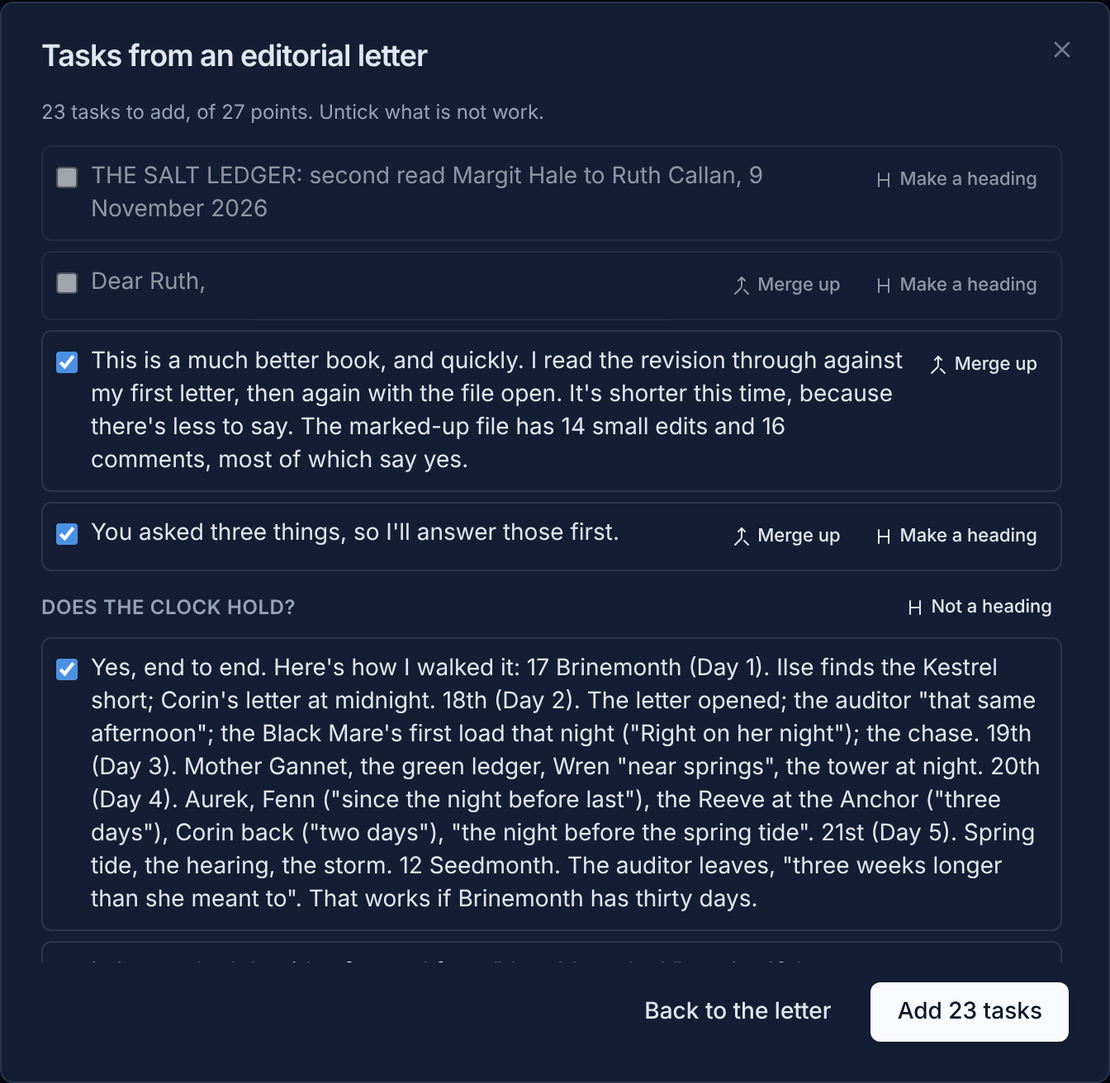
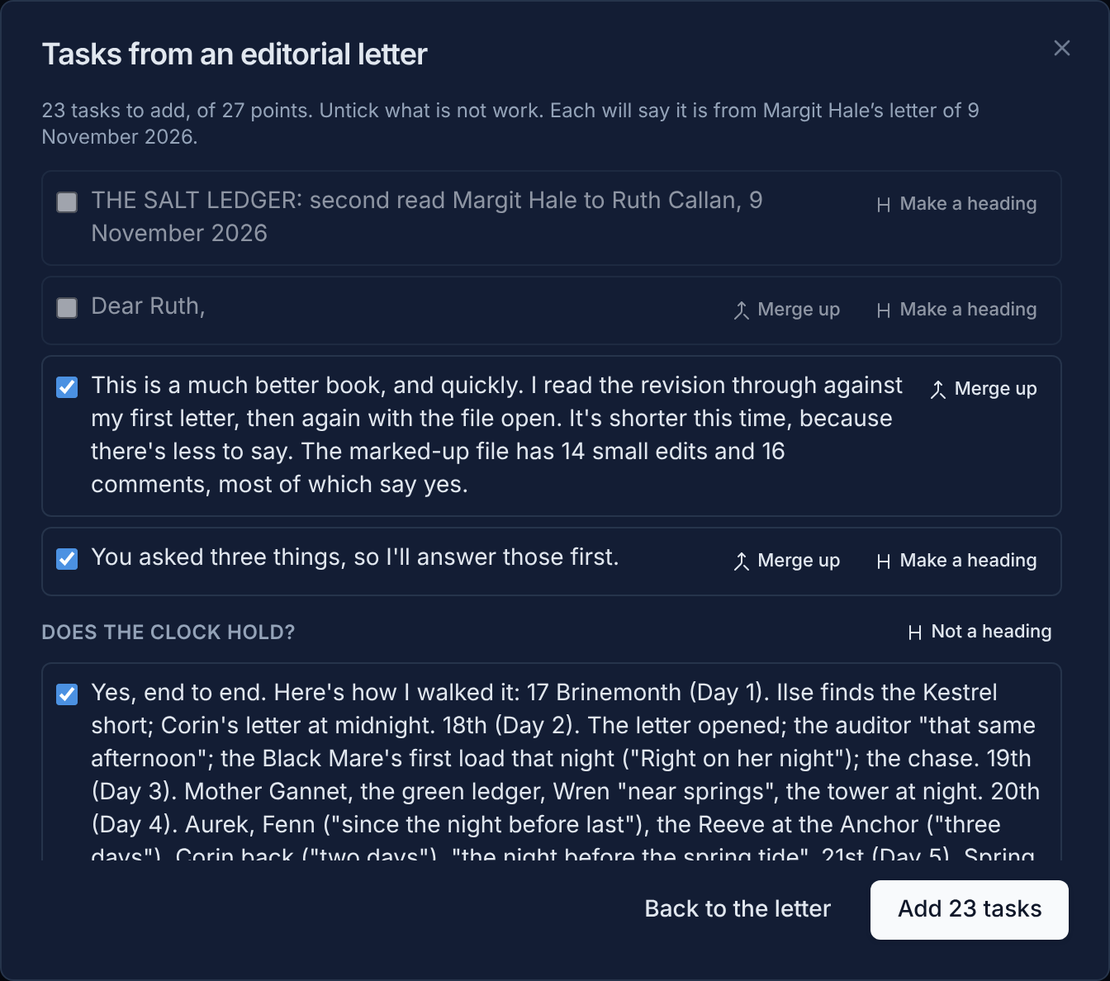
T20: revision tasks from a letter — Ch3 is a chapter, a sign-off read by where it is, a long numbered heading, and which letter
From the third loop's two letters, each finding seen in both:
- "Ch3", a number run straight on: 4 of the first letter's 21 tasks naming a
  chapter were linked to one, and now all 21 are.
- A line at the letter's end opening "With" and ending at a comma is the
  sign-off, whatever the wishes: "With warm good wishes," and the name under it
  were ticked as tasks.
- Among numbered headings, a longer one that is no sentence is a heading:
  "1. The scheme: told too often, and never quite pinned down (your question
  1)". The first loop's first letter had the same.
- Each letter's tasks say which letter: whose and when, read from its head,
  and its round where the book has one from the same hand already.

Claude-Session: https://claude.ai/code/session_012HJuZ3q12imk2q9iq8d945

diff --git a/src/lib/editorialLetter.ts b/src/lib/editorialLetter.ts
@@ -44,9 +44,9 @@ const squash = (s: string) => s.replace(/\s+/g, ' ').trim()
  * in capitals is a heading too — "DOES THE CLOCK HOLD?" — where one in
  * ordinary case is a question to answer (round-trip-plan.md, T3).
  */
-function headingLike(line: string): boolean {
+function headingLike(line: string, longest = 60): boolean {
   const t = line.trim()
-  if (!t || t.length > 60 || MARKER.test(t)) return false
+  if (!t || t.length > longest || MARKER.test(t)) return false
   const capitals = /\p{L}/u.test(t) && t === t.toUpperCase()
   if (/[.!,;]$/.test(t) || (t.endsWith('?') && !capitals)) return false
   // A heading ends at a colon or with no stop; its first letter is a capital or a digit.
@@ -66,6 +66,16 @@ const INDENTED = /^(?: {2,}|\t)\S/
 function pieces(letter: string): Raw[] {
   const lines = letter.replace(/\r\n?/g, '\n').split('\n')
   const out: Raw[] = []
+  // A numbered line alone over prose, as a numbered heading stands: "1. THE CLOCK", then a blank line, then a paragraph.
+  const standsAlone = (i: number) => !(lines[i + 1] ?? '').trim() && !!nextWords(lines, i) && !MARKER.test(nextWords(lines, i))
+  /*
+    Among numbered headings, a longer one is a heading too, where it is no
+    sentence: "1. The scheme: told too often, and never quite pinned down (your
+    question 1)", 74 characters, was a task under the third loop's letter where
+    the others were headings (round-trip-plan-4.md, T20).
+  */
+  const numberedHeadings = lines.filter((l, i) => { const n = NUMBERED.exec(l); return !!n && headingLike(n[1]) && standsAlone(i) }).length
+  const longest = numberedHeadings > 0 ? 120 : 60
   let current: Raw | null = null
   const end = () => {
     // A table keeps its rows as lines: run together, "4th night of the gale ~5th a man in the Gull" read as one sentence (round-trip-plan-3.md, T11.2).
@@ -87,7 +97,7 @@ function pieces(letter: string): Raw[] {
       point, every task under it was filed under the heading before.
     */
     const numbered = NUMBERED.exec(line)
-    if (numbered && current === null && headingLike(numbered[1]) && !next.trim() && nextWords(lines, i) && !MARKER.test(nextWords(lines, i))) {
+    if (numbered && current === null && headingLike(numbered[1], longest) && !/[.!?…]["”’)]*\s+\p{Lu}/u.test(numbered[1]) && standsAlone(i)) {
       out.push({ text: squash(numbered[1]).replace(/:$/, ''), heading: true, said: squash(line) })
       continue
     }
@@ -152,8 +162,18 @@ export function splitLetter(letter: string): LetterItem[] {
     stop, can look like a heading.
   */
   for (let i = items.length - 1; i >= Math.max(greeting + 1, items.length - 5); i--) {
-    // Short, or ending as a sign-off does, at a comma, however long the clause after it: "With warm regards, and thanks for a book I was glad to spend a week in," (T11.2).
-    if (!(SIGN_OFF.test(items[i].text) && (items[i].text.length <= 60 || items[i].text.endsWith(',')))) continue
+    /*
+      Short, or ending as a sign-off does, at a comma, however long the clause
+      after it: "With warm regards, and thanks for a book I was glad to spend a
+      week in," (T11.2). And by where it is, not only its words: a line near
+      the end that opens "With" and ends at a comma is one, whatever the
+      wishes: "With warm good wishes," was not a listed phrase, and it and the
+      name under it were ticked as tasks in both of the third loop's letters
+      (round-trip-plan-4.md, T20).
+    */
+    const t = items[i].text
+    const closing = (SIGN_OFF.test(t) && (t.length <= 60 || t.endsWith(','))) || (/^with\b/i.test(t) && t.endsWith(','))
+    if (!closing) continue
     const below = items.slice(i + 1)
     if (below.every((it) => it.text.length <= 60 && !/[.!?]$/.test(it.text))) {
       for (let k = i; k < items.length; k++) items[k] = { ...items[k], keep: false, heading: false }
@@ -161,6 +181,46 @@ export function splitLetter(letter: string): LetterItem[] {
     break
   }
   return items
+}
+
+const MONTHS = 'January|February|March|April|May|June|July|August|September|October|November|December|Jan|Feb|Mar|Apr|Jun|Jul|Aug|Sept?|Oct|Nov|Dec'
+/** A date as a letter's head gives one: "14 November", "November 14th, 2026", "2026-11-14". */
+const DATE = new RegExp(`\\b(?:\\d{1,2}(?:st|nd|rd|th)?\\s+(?:${MONTHS})\\.?(?:,?\\s+\\d{4})?|(?:${MONTHS})\\.?\\s+\\d{1,2}(?:st|nd|rd|th)?(?:,?\\s+\\d{4})?|\\d{4}-\\d{2}-\\d{2})\\b`, 'i')
+/** A name as it stands in a letter's head or under its sign-off: a few words, each with a capital. */
+const NAME = /^\p{Lu}[\p{L}'’.-]*(?:\s+\p{Lu}[\p{L}'’.-]*){0,3}$/u
+const ORDINALS = ['', '', 'second', 'third', 'fourth', 'fifth', 'sixth', 'seventh', 'eighth', 'ninth', 'tenth']
+
+/**
+ * What a letter's tasks say they are from (round-trip-plan-4.md, T20): whose,
+ * and which. The name typed for it, or read from its head ("Maren Hollis, 14
+ * November") or its signature; the date its head gives; and, where a letter
+ * from the same hand is already among the book's tasks, its round. Two of the
+ * third loop's letters, both from Maren Hollis and both of 14 November, said
+ * only "From the letter: Maren Hollis", and the writer could not say which
+ * round asked for what.
+ *
+ * `earlier`: what the book's letters already say they are. A name typed with
+ * its own date in it is taken as it is, its round added only where it is
+ * already used.
+ */
+export function letterName(letter: string, typed: string, earlier: readonly string[]): string {
+  const lines = letter.replace(/\r\n?/g, '\n').split('\n').map((l) => l.trim()).filter(Boolean)
+  const greeting = lines.slice(0, 5).findIndex((l) => GREETING.test(l))
+  const head = greeting > 0 ? lines.slice(0, greeting) : []
+  const dated = head.find((l) => DATE.test(l))
+  const date = dated ? DATE.exec(dated)![0] : null
+  // Whose, before the date: "Maren Hollis, 14 November", or "Margit Hale to Ruth Callan, 9 November 2026".
+  const before = dated ? dated.slice(0, DATE.exec(dated)!.index).replace(/[\s,;:–—-]+$/, '').replace(/\s+to\s+.*$/i, '') : ''
+  const signed = lines.at(-1) ?? ''
+  const typedName = typed.trim()
+  const who = typedName || (NAME.test(before) ? before : NAME.test(signed) && signed.length <= 30 ? signed : '')
+  const same = (l: string) => !!who && (l === who || l.startsWith(`${who}’s `) || l.startsWith(`${who},`))
+  const round = 1 + new Set(earlier.filter(same)).size
+  const nth = ORDINALS[round] ?? `${round}th`
+  if (typedName && DATE.test(typedName)) return round > 1 && earlier.includes(typedName) ? `${typedName}, the ${nth} letter` : typedName
+  if (!who) return date ? `the letter of ${date}` : 'an editorial letter'
+  if (round > 1) return `${who}’s ${nth} letter${date ? `, of ${date}` : ''}`
+  return `${who}’s letter${date ? ` of ${date}` : ''}`
 }
 
 /** A point made a heading, where the guess missed one: it stands over the points after it until the next heading. */
@@ -203,8 +263,14 @@ const NUMBER_WORDS: Record<string, number> = {
   eighteen: 18, nineteen: 19, twenty: 20,
 }
 const NUM = `(?:\\d{1,3}|${Object.keys(NUMBER_WORDS).join('|')})`
-// "ch." may run straight into its number, as an editor's shorthand does: "ch.3" (round-trip-plan-2.md, T7.6; R2-4).
-const CHAPTERS = new RegExp(`\\b(?:chapters?\\s+|chs?\\.\\s*|chs?\\s+)(${NUM}(?:\\s*(?:[-–—]|to|through|and|&|,|or)\\s*${NUM})*)`, 'gi')
+/*
+  "ch." may run straight into its number, as an editor's shorthand does: "ch.3"
+  (round-trip-plan-2.md, T7.6; R2-4). And "Ch3", with no stop and no space, a
+  number in figures after it: the third loop's editor wrote every chapter so,
+  and 16 of the 18 tasks from her first letter that named one were linked to
+  none (round-trip-plan-4.md, T20).
+*/
+const CHAPTERS = new RegExp(`\\b(?:chapters?\\s+|chs?\\.\\s*|chs?\\s+|chs?(?=\\d))(${NUM}(?:\\s*(?:[-–—]|to|through|and|&|,|or)\\s*${NUM})*)`, 'gi')
 
 const toNumber = (s: string) => NUMBER_WORDS[s.toLowerCase()] ?? Number(s)
 

diff --git a/src/lib/__tests__/letterLoop3.test.ts b/src/lib/__tests__/letterLoop3.test.ts
@@ -1,0 +1,105 @@
+import { describe, it, expect } from 'vitest'
+import { readFileSync } from 'fs'
+import path from 'path'
+import { chapterNumbers, letterName, lettersTasks, splitLetter, suggestLinks } from '@/lib/editorialLetter'
+
+/*
+  Revision tasks from the third loop's letters (round-trip-plan-4.md, T20;
+  loop-2026-11-14.md, finding 9; the writer's W3-6 to W3-9). Each finding was
+  seen in both of Maren Hollis's letters.
+*/
+
+const F = path.join(__dirname, 'fixtures/docx')
+const read = (f: string) => readFileSync(path.join(F, f), 'utf8')
+const LETTERS = ['run-2026-11-14-loop3/round1-editorial-letter.txt', 'run-2026-11-14-loop3/round2-editorial-letter.txt']
+const chapters = Array.from({ length: 7 }, (_, i) => ({ id: `c${i + 1}`, number: i + 1 }))
+const WORDS = 'one|two|three|four|five|six|seven'
+// A chapter named as this editor names one: "Ch3", "Ch5, scene 3", "in Ch6", "Chapter Six".
+const NAMES_A_CHAPTER = new RegExp(`\\bch(?:apter)?\\.?\\s*(?:\\d|(?:${WORDS})\\b)`, 'i')
+
+describe('“Ch3” is a chapter (W3-6)', () => {
+  it('every task in both letters that names a chapter is linked to it', () => {
+    const naming = LETTERS.flatMap((f) => lettersTasks(splitLetter(read(f)))).filter((t) => NAMES_A_CHAPTER.test(t.text))
+    // The writer counted 18 in the first letter; 16 of them were linked to none.
+    expect(naming.length).toBeGreaterThanOrEqual(18)
+    expect(naming.filter((t) => !suggestLinks(t.text, { chapters, characters: [] }).some((l) => l.kind === 'chapter'))).toEqual([])
+  })
+
+  it('as the letters write it, and not inside a word', () => {
+    expect(chapterNumbers('(Ch3), in Ch6, and Ch5, scene 3')).toEqual([3, 6, 5])
+    expect(chapterNumbers('Ilse goes to the Exchange (Ch5, scene 3). One line in Chapter Seven')).toEqual([5, 7])
+    expect(chapterNumbers('a branch4 and a much3 and Ch')).toEqual([])
+  })
+})
+
+describe('a sign-off read by where it is (W3-7)', () => {
+  it('in both letters, the sign-off and the name under it are not work', () => {
+    for (const f of LETTERS) {
+      const items = splitLetter(read(f))
+      expect(items.slice(-2).map((i) => [i.text, i.keep]), f).toEqual([[expect.stringMatching(/^With warm good wishes,/), false], ['Maren', false]])
+      expect(lettersTasks(items).some((t) => /^With warm|^Maren$/.test(t.text)), f).toBe(false)
+    }
+  })
+
+  it('a line opening “With” and ending at a comma is one only at the end, with no sentence under it', () => {
+    const items = splitLetter('Dear Ana,\n\nWith the ending, I agree,\n\nCut the last page.\n\nWith admiration for the book,\n\nTom')
+    expect(items.map((i) => i.keep)).toEqual([false, true, true, false, false])
+  })
+})
+
+describe('a long numbered heading (W3-8)', () => {
+  it('“1. The scheme: told too often…” stands over its points, as the others do', () => {
+    const items = splitLetter(read(LETTERS[0]))
+    const headings = items.filter((i) => i.heading).map((i) => i.text)
+    expect(headings).toEqual(expect.arrayContaining([
+      'The scheme: told too often, and never quite pinned down (your question 1)',
+      'Days, tides and light (your question 2)',
+      'Who knows what: Brennick (your question 3)',
+      'The ending (your question 4)',
+    ]))
+    const tasks = lettersTasks(items)
+    expect(tasks.filter((t) => t.group === 'The scheme: told too often, and never quite pinned down (your question 1)')).toHaveLength(7)
+  })
+
+  it('only among numbered headings, and not one with a sentence in it', () => {
+    const long = '1. The scheme: told too often, and never quite pinned down (your question 1)'
+    // Alone, as long as that, it is a point.
+    expect(splitLetter(`Dear Ana,\n\n${long}\n\nBoth, I'm afraid.`).find((i) => i.heading)).toBeUndefined()
+    // Among shorter numbered headings, a heading; one that holds a sentence stays a point.
+    const among = `Dear Ana,\n\n${long}\n\nBoth, I'm afraid.\n\n2. Days and tides\n\nThe calendar holds.`
+    expect(splitLetter(among).filter((i) => i.heading).map((i) => i.text)).toEqual(['The scheme: told too often, and never quite pinned down (your question 1)', 'Days and tides'])
+    const sentence = `Dear Ana,\n\n1. The scheme is told too often. It is never quite pinned down, as you asked me\n\nBoth.\n\n2. Days and tides\n\nThe calendar holds.`
+    expect(splitLetter(sentence).filter((i) => i.heading).map((i) => i.text)).toEqual(['Days and tides'])
+  })
+
+  it('the first loop’s first letter, the same: “1. The fraud has to make sense on one sheet of paper…”, 77 characters, a heading', () => {
+    const items = splitLetter(read('run-2026-11-10-loop/letter-1.txt'))
+    expect(items.find((i) => i.text.startsWith('The fraud has to make sense'))).toMatchObject({ heading: true })
+  })
+})
+
+describe('which letter (W3-9)', () => {
+  const [one, two] = LETTERS.map(read)
+
+  it('whose, and when, from its head; a second from the same hand says it is the second', () => {
+    const first = letterName(one, '', [])
+    expect(first).toBe('Maren Hollis’s letter of 14 November')
+    expect(letterName(two, '', [first])).toBe('Maren Hollis’s second letter, of 14 November')
+    // The name typed, as the writer typed it in the run, and a letter named so before.
+    expect(letterName(two, 'Maren Hollis', ['Maren Hollis'])).toBe('Maren Hollis’s second letter, of 14 November')
+    expect(letterName(two, '', [first, 'Maren Hollis’s second letter, of 14 November'])).toBe('Maren Hollis’s third letter, of 14 November')
+  })
+
+  it('a name typed with its date is taken as typed; with none anywhere, an editorial letter', () => {
+    expect(letterName(one, 'Ines, 3 November', [])).toBe('Ines, 3 November')
+    expect(letterName(one, 'Ines, 3 November', ['Ines, 3 November'])).toBe('Ines, 3 November, the second letter')
+    expect(letterName('Some notes.\n\nCut the prologue.', '', [])).toBe('an editorial letter')
+    expect(letterName('Dear Ana,\n\nCut it.\n\nBest,\nTom', '', [])).toBe('Tom’s letter')
+  })
+
+  it('the earlier runs’ letters: who sent them, from their heads', () => {
+    expect(letterName(read('run-2026-11-09/letter-1.txt'), '', [])).toBe('Margit Hale’s letter of 9 November 2026')
+    expect(letterName(read('run-2026-11-10-loop/letter-1.txt'), '', [])).toBe('Jonah Pryce’s letter of 10 November 2026')
+    expect(letterName(read('run-2026-11-12-loop2/letter-1.txt'), '', [])).toBe('Ines Marlowe’s letter of 11 November 2026')
+  })
+})

diff --git a/e2e/revisionTasks.spec.ts b/e2e/revisionTasks.spec.ts
@@ -276,3 +276,38 @@ test('the second loop’s letter: a heading over an introduction ending in a col
   const task = revisions.getByRole('group', { name: /^To do: 4th night of the gale/ }).getByTitle('Change what it says')
   expect(await task.evaluate((e) => (e as HTMLElement).innerText.split('\n').length)).toBe(12)
 })
+
+test('the third loop’s two letters: the sign-off not work, the long numbered heading a heading, and each letter’s tasks saying which letter they are from (round-trip-plan-4.md, T20)', async ({ page }) => {
+  test.setTimeout(150_000)
+  const worldId = await imported(page)
+  const revisions = await dashboard(page, worldId)
+  const fixture = (n: 1 | 2) => readFileSync(path.resolve(path.dirname(fileURLToPath(import.meta.url)), `../src/lib/__tests__/fixtures/docx/run-2026-11-14-loop3/round${n}-editorial-letter.txt`), 'utf8')
+  const dialog = page.getByRole('dialog', { name: 'Tasks from an editorial letter' })
+  const points = dialog.getByRole('list', { name: 'Points of the letter' })
+
+  // The first, pasted with no name typed: whose and when, read from its head.
+  await revisions.getByRole('button', { name: 'Paste an editorial letter…' }).click()
+  await dialog.getByRole('textbox', { name: 'The letter' }).fill(fixture(1))
+  await dialog.getByRole('button', { name: 'Split into tasks' }).click()
+  await expect(points.getByRole('listitem', { name: 'Heading: The scheme: told too often, and never quite pinned down (your question 1)' })).toBeVisible()
+  await expect(points.getByRole('checkbox', { name: /^Keep: With warm good wishes, and congratulations/ })).not.toBeChecked()
+  await expect(points.getByRole('checkbox', { name: 'Keep: Maren', exact: true })).not.toBeChecked()
+  await expect(dialog.getByRole('status')).toContainText('Each will say it is from Maren Hollis’s letter of 14 November.')
+  await dialog.getByRole('button', { name: /^Add \d+ tasks$/ }).click()
+  await expect(dialog).toHaveCount(0)
+
+  // The second, from the same hand on the same day: its round.
+  await revisions.getByRole('button', { name: 'Paste an editorial letter…' }).click()
+  await dialog.getByRole('textbox', { name: 'The letter' }).fill(fixture(2))
+  await dialog.getByRole('button', { name: 'Split into tasks' }).click()
+  await expect(points.getByRole('checkbox', { name: 'Keep: With warm good wishes,' })).not.toBeChecked()
+  await expect(dialog.getByRole('status')).toContainText('Each will say it is from Maren Hollis’s second letter, of 14 November.')
+  await dialog.getByRole('button', { name: /^Add \d+ tasks$/ }).click()
+  await expect(dialog).toHaveCount(0)
+
+  // In the one list, each says which.
+  const open = revisions.getByRole('list', { name: 'Open tasks' })
+  await expect(open.getByRole('group', { name: /^To do: Ilse goes to the Exchange \(Ch5, scene 3\)/ })).toContainText('From Maren Hollis’s second letter, of 14 November')
+  await expect(open.getByRole('group', { name: /^To do: Ch3: give her a reason\./ })).toContainText('From Maren Hollis’s letter of 14 November')
+  await expect(open.getByRole('group', { name: /^To do: Ch3: give her a reason\./ })).not.toContainText('second')
+})

diff --git a/src/features/revisions/LetterDialog.tsx b/src/features/revisions/LetterDialog.tsx
@@ -7,8 +7,8 @@ import { Textarea } from '@/components/ui/textarea'
 import { Field } from '@/components/ui/field'
 import { cn } from '@/lib/utils'
 import { plural } from '@/lib/plural'
-import { lettersTasks, makeHeading, mergeWithPrevious, splitLetter, suggestLinks, type LetterItem } from '@/lib/editorialLetter'
-import { addRevisionTasks, type NewTask } from '@/db/hooks/useRevisionTasks'
+import { letterName, lettersTasks, makeHeading, mergeWithPrevious, splitLetter, suggestLinks, type LetterItem } from '@/lib/editorialLetter'
+import { addRevisionTasks, useRevisionTasks, type NewTask } from '@/db/hooks/useRevisionTasks'
 import { useCharacters } from '@/db/hooks/useCharacters'
 import type { TaskBook } from './TaskList'
 
@@ -29,6 +29,9 @@ export function LetterDialog({ worldId, book, open, onOpenChange }: {
   const [from, setFrom] = useState('')
   const [items, setItems] = useState<LetterItem[] | null>(null)
   const characters = useCharacters(worldId)
+  // The letters the book's tasks are from already: a second from the same hand says which it is (T20).
+  const tasksNow = useRevisionTasks(worldId)
+  const earlier = useMemo(() => [...new Set(tasksNow.flatMap((t) => (t.source?.kind === 'letter' ? [t.source.letter] : [])))], [tasksNow])
 
   const close = () => { setLetter(''); setFrom(''); setItems(null); onOpenChange(false) }
   const linksOf = useMemo(() => {
@@ -36,12 +39,13 @@ export function LetterDialog({ worldId, book, open, onOpenChange }: {
     return (text: string) => suggestLinks(text, { chapters, characters })
   }, [book.chapters, characters])
 
+  // Whose letter, and which: as typed, or read from its head; its round where the book has one from the same hand (T20).
+  const name = useMemo(() => letterName(letter, from, earlier), [letter, from, earlier])
   // The tasks the list makes now: each point kept, under the heading before it, with its links.
   const tasks = useMemo<NewTask[]>(() => {
     if (!items) return []
-    const letter = from.trim() || 'an editorial letter'
-    return lettersTasks(items).map((t) => ({ ...t, links: linksOf(t.text), source: { kind: 'letter', letter } }))
-  }, [items, from, linksOf])
+    return lettersTasks(items).map((t) => ({ ...t, links: linksOf(t.text), source: { kind: 'letter', letter: name } }))
+  }, [items, name, linksOf])
 
   return (
     <Dialog open={open} onOpenChange={(o) => { if (!o) close() }}>
@@ -70,6 +74,7 @@ export function LetterDialog({ worldId, book, open, onOpenChange }: {
           <div className="space-y-3 text-sm">
             <p role="status" className="text-xs text-[hsl(var(--muted-foreground))]">
               {plural(tasks.length, 'task')} to add, of {plural(items.filter((i) => !i.heading).length, 'point')}. Untick what is not work.
+              {' '}Each will say it is from {name}.
             </p>
             <ol aria-label="Points of the letter" className="max-h-[55vh] space-y-1.5 overflow-y-auto pr-1">
               {items.map((it, i) => it.heading ? (

diff --git a/src/lib/__tests__/editorialLetter.test.ts b/src/lib/__tests__/editorialLetter.test.ts
@@ -187,8 +187,10 @@ describe('suggested links', () => {
   it('"ch.3" with no space, as an editor writes it: the loop’s letter, every one (round-trip-plan-2.md, T7.6; R2-4)', () => {
     expect(chapterNumbers('the vault (ch.3) and the fire (ch.6, ch.1)')).toEqual([3, 6, 1])
     expect(chapterNumbers('Chs.3–5 sag.')).toEqual([3, 4, 5])
-    // Not inside a word, and not "ch" run into a number with no dot.
-    expect(chapterNumbers('each.3 and ch3 and such.4')).toEqual([])
+    // Not inside a word. And "ch3", run into its number with no dot, is a chapter since T20: the third loop's editor
+    // wrote every one so (round-trip-plan-4.md).
+    expect(chapterNumbers('each.3 and such.4 and church4')).toEqual([])
+    expect(chapterNumbers('each.3 and ch3 and such.4')).toEqual([3])
     const letter = readFileSync(path.join(__dirname, 'fixtures/docx/run-2026-11-10-loop/letter-1.txt'), 'utf8')
     const written = (letter.match(/\bch\.\d+/gi) ?? []).map((m) => Number(m.slice(3)))
     expect(written.length).toBe(9)

diff --git a/src/features/revisions/TaskList.tsx b/src/features/revisions/TaskList.tsx
@@ -133,7 +133,8 @@ function TaskRow({ worldId, task, book }: { worldId: string; task: RevisionTask;
         </div>
         {source && (
           <p className="flex items-center gap-1 text-[11px] text-[hsl(var(--muted-foreground))]">
-            {source.kind === 'letter' && <>From the letter: {source.letter}</>}
+            {/* Named as the letter says it is (T20); one named before that, by what was typed, as it was. */}
+            {source.kind === 'letter' && <>{/\bletter\b/i.test(source.letter) ? `From ${source.letter}` : `From the letter: ${source.letter}`}</>}
             {source.kind === 'note' && (
               <>
                 <StickyNote className="h-3 w-3" aria-hidden="true" />

diff --git a/docs/GUIDE.md b/docs/GUIDE.md
@@ -2876,7 +2876,10 @@ list, counted against the book — *12 of 31 done* — until every task is ticke
   - it is cut at each bullet and numbered point, and between paragraphs;
   - a short line over points — *Pacing*, *Characters:*, a numbered *1. THE
     CLOCK* over paragraphs, a question in capitals like *DOES THE CLOCK HOLD?*
-    — is their heading, and each task under it keeps it. A sentence that
+    — is their heading, and each task under it keeps it. Where a letter's
+    sections are numbered so, a longer one is a heading too, if it is no
+    sentence: *1. The scheme: told too often, and never quite pinned down
+    (your question 1)*. A sentence that
     introduces bullets (*Three things on the ending:*) heads those bullets
     only; the paragraphs after them are the section's again. If a heading is
     not one, say so with **Not a heading** and it becomes a point; if a point
@@ -2885,7 +2888,8 @@ list, counted against the book — *12 of 31 done* — until every task is ticke
     the sign-off — *Best wishes*, *With best wishes*, or a longer one like
     *With warm regards, and thanks for a book I was glad to spend a week
     in,* — and the name and signature under it are offered unticked, being
-    no work;
+    no work. A line at the letter's end that opens with *With* and ends at a
+    comma is the sign-off, whatever the wishes: *With warm good wishes,*;
   - a heading over a sentence that ends in a colon, like *SMALL THINGS I'VE
     CHANGED* over *All tracked, all in the margins:*, stays the section's
     heading, and the sentence heads its bullets;
@@ -2895,10 +2899,18 @@ list, counted against the book — *12 of 31 done* — until every task is ticke
     points of one; untick a point to leave it out.
 
   Each point says what it will be linked to: the chapters it names by number
-  (*chapter 3*, *ch. 12*, *ch.12*, *chapters 7–9*) and the characters it names.
-  **Add N tasks** adds them all at once, as one step of **Undo**.
+  (*chapter 3*, *ch. 12*, *ch.12*, *Ch3*, *chapters 7–9*) and the characters it
+  names. **Add N tasks** adds them all at once, as one step of **Undo**.
 
-  ![An editor's letter split into points: its title and greeting unticked, a question in capitals as the heading over the points after it](images/121-letter-split.png)
+  **Each task says which letter it is from**: *From Maren Hollis's letter of
+  14 November*. Whose it is and its date are read from the letter's head
+  (*Maren Hollis, 14 November*), or its signature, where you leave **Whose
+  letter** empty; what you type there is used instead. A second letter from
+  the same editor says so — *From Maren Hollis's second letter, of 14
+  November* — so that two rounds of tasks can be told apart in the one list.
+  The list of points says what the tasks will say, before you add them.
+
+  ![An editor's letter split into points: whose letter its tasks will say they are from, its title and greeting unticked, a question in capitals as the heading over the points after it](images/121-letter-split.png)
 
 - **Each task** can be ticked done, changed (click its words), and deleted.
   Its links are a way there — a chapter opens the book at it, a scene at the
